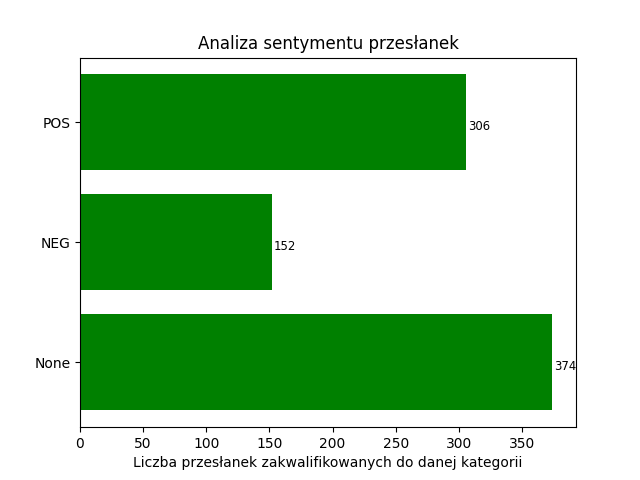
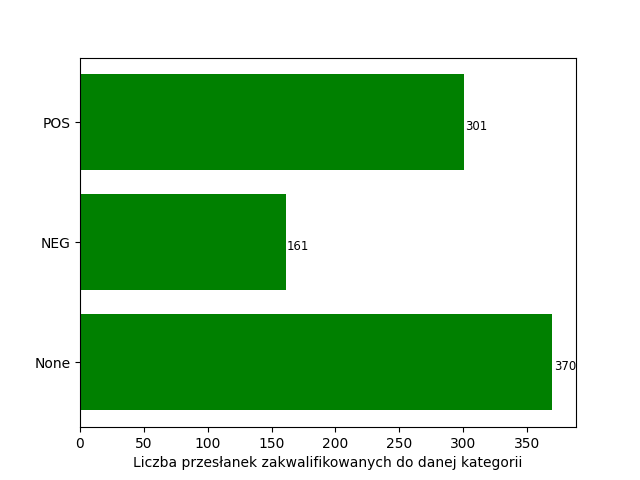
updated sentiment analysis with hate speech

diff --git a/sentiment-analysis.py b/sentiment-analysis.py
@@ -31,10 +31,20 @@ with open('corpuses/negative_words_pl.txt', 'r', encoding='utf8') as csv_file:
     for row in csv_reader:
         sentiment[row[0]] = -1
 
+with open('corpuses/declension_hatred_cleaned.csv', 'r', encoding='windows-1250') as csv_file:
+    csv_reader2 = csv.reader(csv_file, delimiter=';')
+    next(csv_reader2)
+    for row in csv_reader2:
+        if row[4] not in sentiment.keys():
+            sentiment[row[4]] = -1
+
 with open('corpuses/positive_words_pl.txt', 'r', encoding='utf8') as csv_file:
-    csv_reader = csv.reader(csv_file, delimiter=';')
-    for row in csv_reader:
-        sentiment[row[0]] = 1
+    csv_reader3 = csv.reader(csv_file, delimiter=';')
+    for row in csv_reader3:
+        if row[0] not in sentiment.keys():
+            sentiment[row[0]] = 1
+
+
 
 df = pd.read_csv('original-model/premises.csv')
 sen_an = pd.DataFrame(df)
@@ -106,5 +116,4 @@ for i, v in enumerate(x_axis):
 plt.barh(y_axis, x_axis, align='center', color='green')
 ax.invert_yaxis() # labels read top-to-bottom
 ax.set_xlabel('Liczba przesłanek zakwalifikowanych do danej kategorii')
-ax.set_title('Analiza sentymentu przesłanek')
 plt.savefig('plots/sen-an.png')

diff --git a/emo-analysis.py b/emo-analysis.py
@@ -168,5 +168,4 @@ for i, v in enumerate(x_axis):
 plt.barh(y_axis, x_axis, align='center', color='maroon')
 ax.invert_yaxis() # labels read top-to-bottom
 ax.set_xlabel('Liczba przesłanek zakwalifikowanych do danej kategorii')
-ax.set_title('Analiza emocjonalna przesłanek')
 plt.savefig('plots/emo-an.png')
